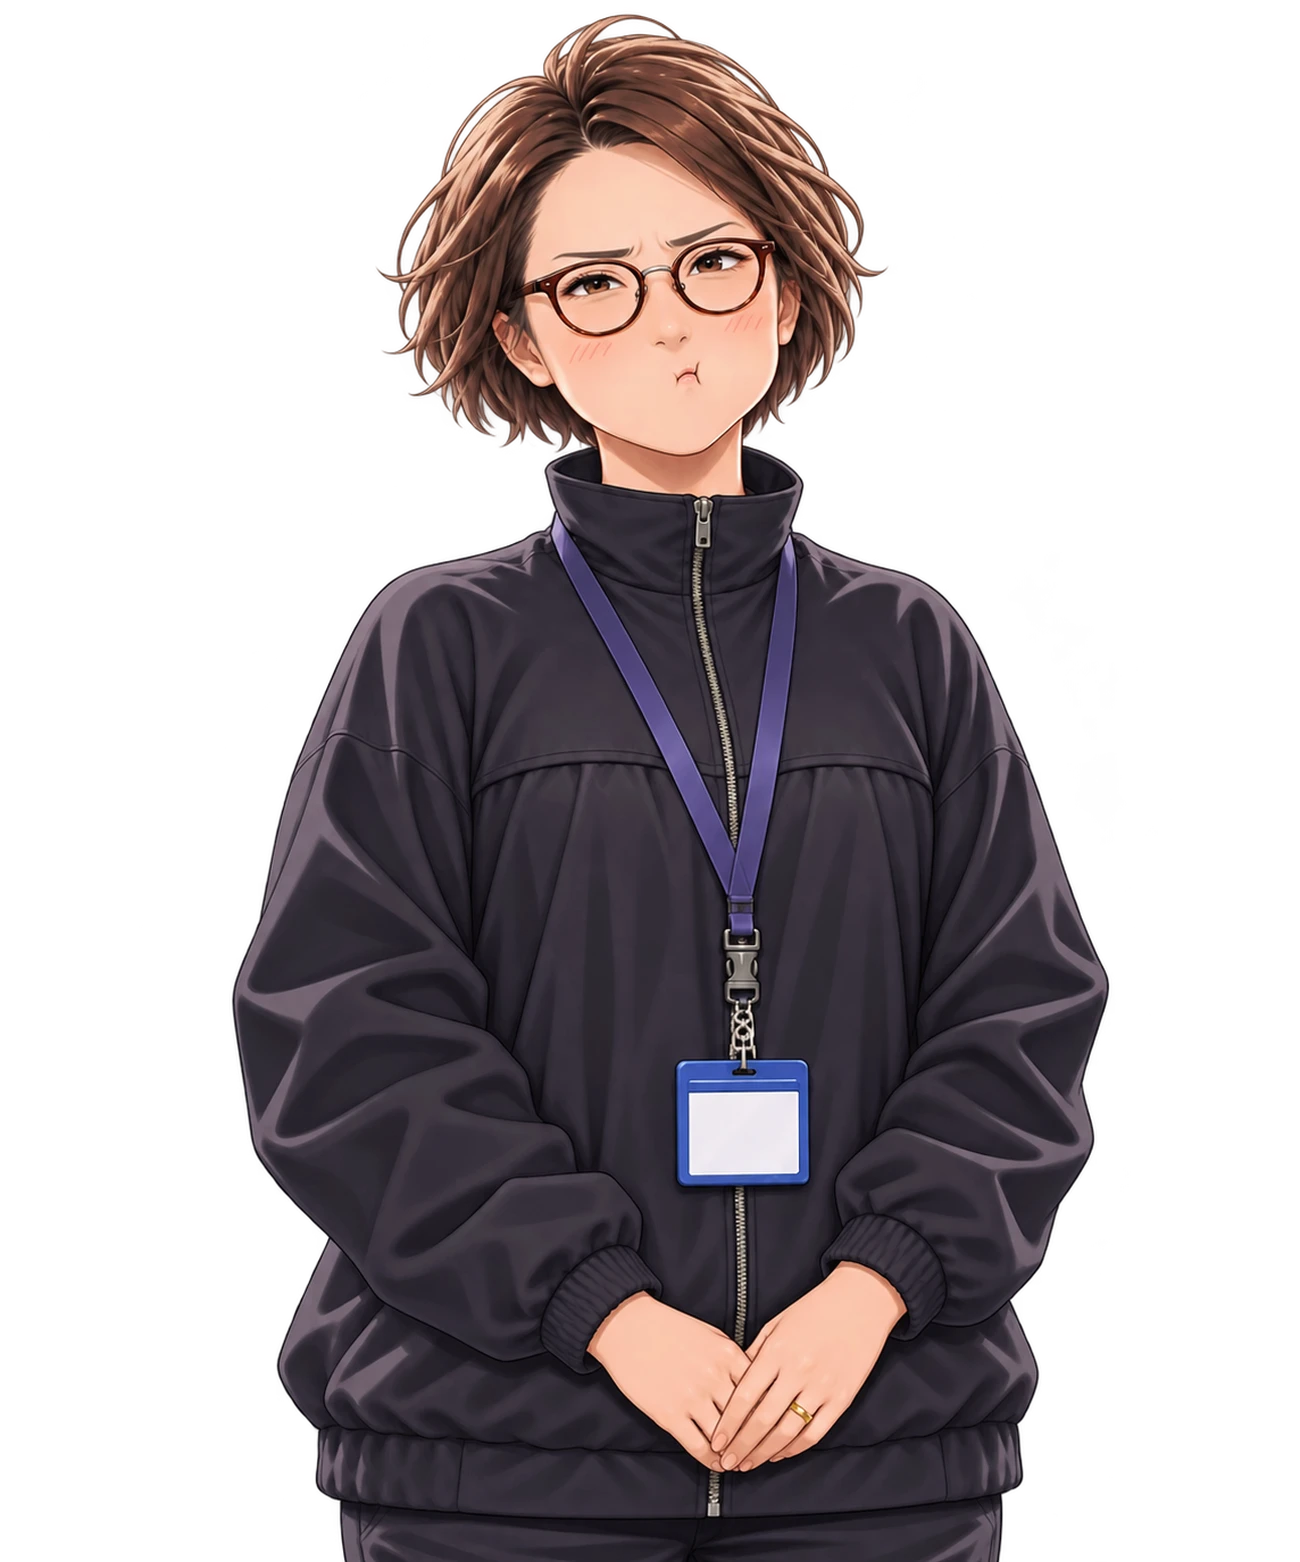
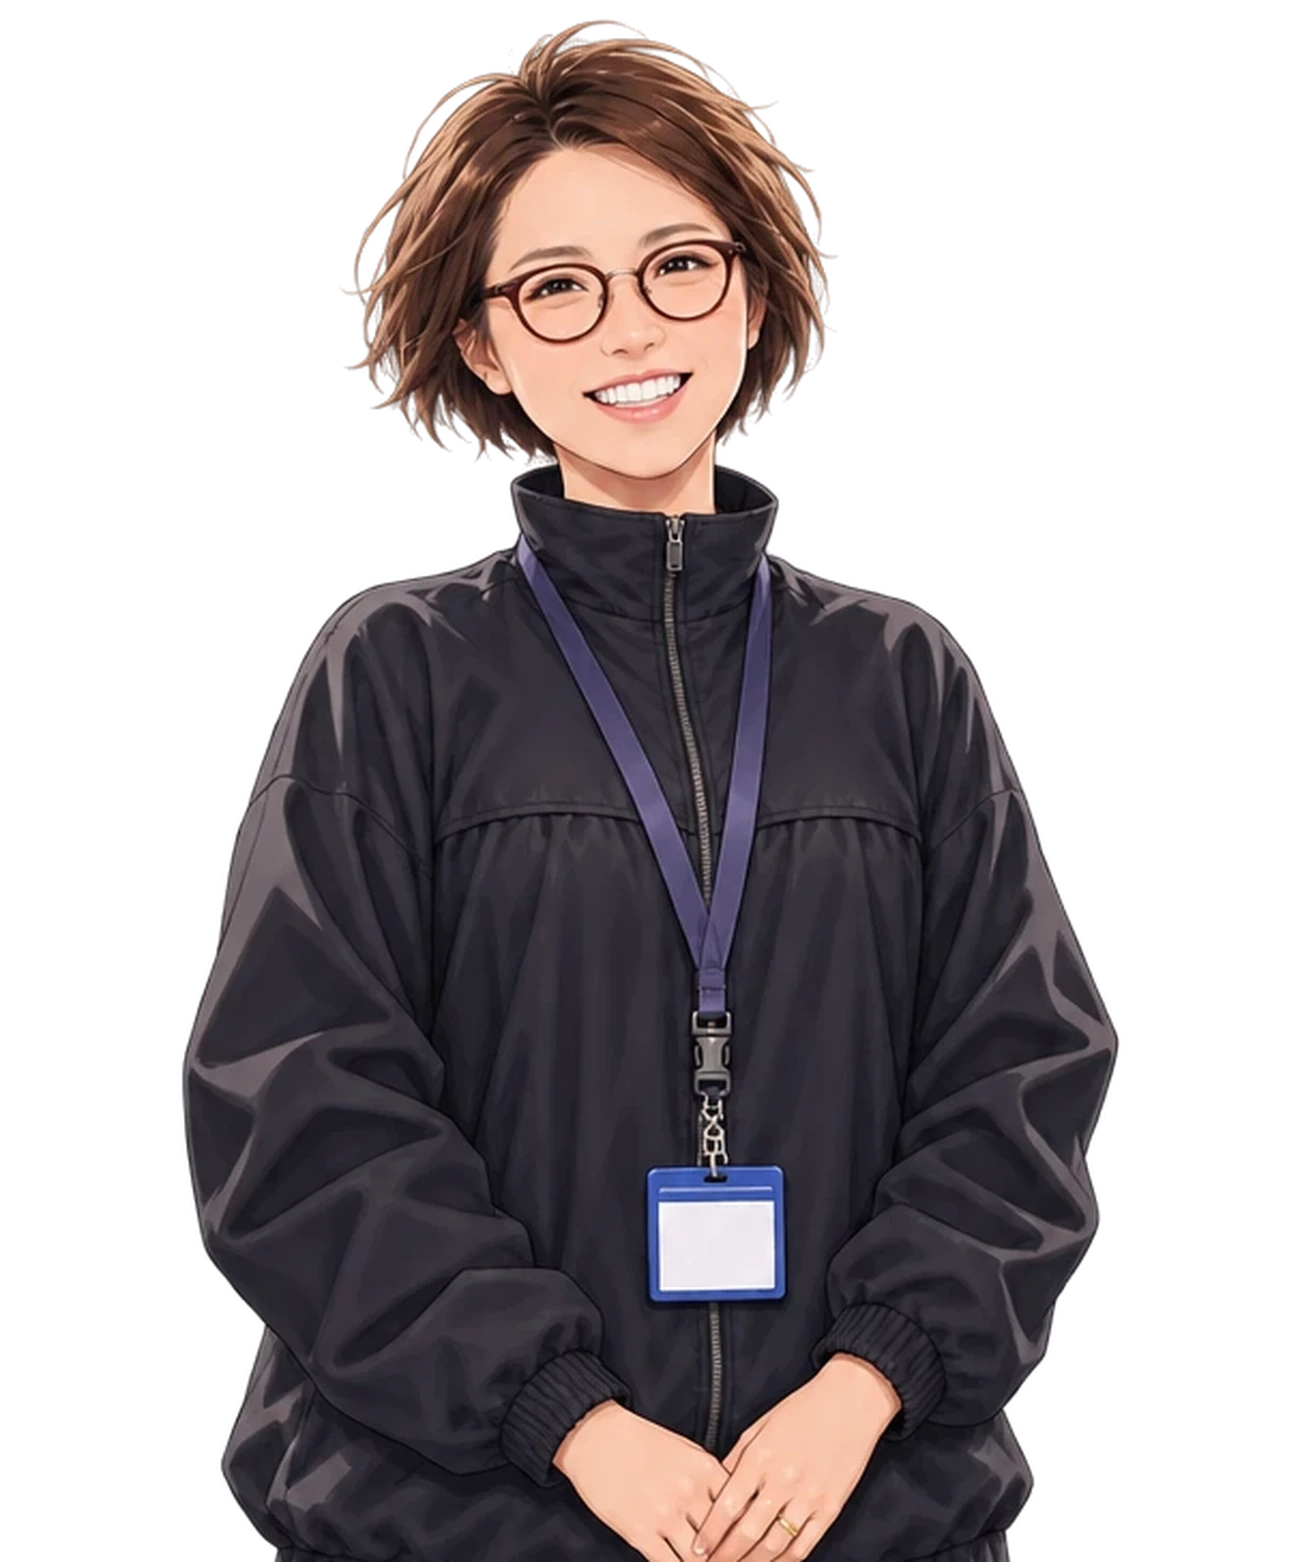
Ver.0.42.1.0 新ヒロイン5人のSSR・URを立ち絵の顔のまま背景と光の演出で作り直し、なつめの表情・上半身・SR・戦闘用も立ち絵にそろえる

Changed region(s): [[0.1231, 0.0, 0.8615, 1.0], [0.6462, 0.5224, 0.6769, 0.5531], [0.4, 0.6146, 0.4308, 0.6453]]

diff --git a/index.html b/index.html
@@ -1,3 +1,3 @@
 <!doctype html><html lang="ja"><head><meta charset="UTF-8"><meta name="viewport" content="width=device-width, initial-scale=1, viewport-fit=cover, interactive-widget=resizes-content"><meta name="theme-color" content="#f6f8ff"><title>宵星の契約者 | RE:START Ver.0.42.0.0</title><link rel="stylesheet" href="css/styles.css?v=0.42.0.0"><link rel="stylesheet" href="css/chibi_battle.css?v=0.42.0.0"><link rel="stylesheet" href="css/q6_classic_battle_v03540.css?v=0.42.0.0"><link rel="stylesheet" href="css/home_portrait_fit_v03550.css?v=0.42.0.0"><link rel="stylesheet" href="css/portrait_face_frame_v03560.css?v=0.42.0.0"><link rel="stylesheet" href="css/mobile_landscape_v03560_patch.css?v=20261103"><link rel="stylesheet" href="css/character_depth_v1.css?v=1"><link rel="stylesheet" href="css/character_acting_v1.css?v=20261104-2">
 </head><body><div id="app"></div>
-<script defer src="js/art.js?v=0.42.0.0"></script><script defer src="js/art_v2.js?v=20261104-makoto-v1"></script><script defer src="js/romance7.js?v=0.42.0.0"></script><script defer src="js/romance_shinonome.js?v=0.42.0.0"></script><script defer src="js/romance_oldcafe.js?v=0.42.0.0"></script><script defer src="js/romance_stage_lines.js?v=0.42.0.0"></script><script defer src="js/romance_station.js?v=0.42.0.0"></script><script defer src="js/romance_school.js?v=0.42.0.0"></script><script defer src="js/romance_seaside.js?v=0.42.0.0"></script><script defer src="js/romance_lighthouse.js?v=0.42.0.0"></script><script defer src="js/romance_chapter2.js?v=0.42.0.0"></script><script defer src="js/romance_chapter2_late.js?v=0.42.0.0"></script><script defer src="js/expression_cues.js?v=0.42.0.0"></script><script defer src="js/expression_art_v029.js?v=0.42.0.0"></script><script defer src="js/expression_cues_v029.js?v=0.42.0.0"></script><script defer src="js/prologue_faces_v03439.js?v=0.42.0.0"></script><script defer src="js/audio.js?v=0.42.0.0"></script><script defer src="js/audio_trial.js?v=0.42.0.0"></script><script defer src="js/romance_chapter3.js?v=0.42.0.0"></script><script defer src="js/romance_chapter3_late.js?v=0.42.0.0"></script><script defer src="js/romance_chapter4.js?v=0.42.0.0"></script><script defer src="js/romance_chapter5.js?v=0.42.0.0"></script><script defer src="js/chapter5_rewrite_v0360.js?v=0.42.0.0"></script><script defer src="js/chapter6_v0370.js?v=0.42.0.0"></script><script defer src="js/chapter7_v0380.js?v=0.42.0.0"></script><script defer src="js/chapter8_v0390.js?v=0.42.0.0"></script><script defer src="js/chapter9_v0400.js?v=0.42.0.0"></script><script defer src="js/chapter10_v0410.js?v=0.42.0.0"></script><script defer src="js/investigation.js?v=0.42.0.0"></script><script defer src="js/story_backgrounds_v031.js?v=0.42.0.0"></script><script defer src="js/portrait_fit_v031.js?v=0.42.0.0"></script><script defer src="js/new_units_v026.js?v=0.42.0.0"></script><script defer src="js/heroines_v027.js?v=0.42.0.0"></script><script defer src="js/heroines_v028.js?v=0.42.0.0"></script><script defer src="js/heroines_v0420.js?v=0.42.0.0"></script><script defer src="js/performance_v016.js?v=0.42.0.0"></script><script defer src="js/q12_hd2d.js?v=0.42.0.0"></script><script defer src="js/q12_cinematic.js?v=0.42.0.0"></script><script defer src="js/chibi_battle.js?v=0.42.0.0"></script><script defer src="js/zankyo_enemy_art_v03440.js?v=0.42.0.0"></script><script defer src="js/chibi_bridge_v03321.js?v=0.42.0.0"></script><script defer src="js/battle_turn_v032.js?v=0.42.0.0"></script><script defer src="js/battle_weakness_v033.js?v=0.42.0.0"></script><script defer src="js/battle_flames_v034.js?v=0.42.0.0"></script><script defer src="js/battle_flame_ui_v03410.js?v=0.42.0.0"></script><script defer src="js/battle_auto_v03454.js?v=0.42.0.0"></script><script defer src="js/ambient_v03438.js?v=0.42.0.0"></script><script defer src="js/story_rewrite_v03416.js?v=0.42.0.0"></script><script defer src="js/character_depth_v1.js?v=1"></script><script defer src="js/game.js?v=0.42.0.0"></script><script defer src="js/haruka_chapter4_v03458.js?v=0.42.0.0"></script><script defer src="js/boss_director_v03462.js?v=0.42.0.0"></script><script defer src="js/q6_classic_battle_v03540.js?v=0.42.0.0"></script><script defer src="js/home_portrait_fit_v03550.js?v=0.42.0.0"></script><script defer src="js/portrait_faces_v03560.js?v=0.42.0.0"></script><script defer src="js/portrait_face_frame_v03560.js?v=0.42.0.0"></script><script defer src="js/story_weight_cues_v0359.js?v=0.42.0.0"></script><script defer src="js/heroines_v0420_wire.js?v=0.42.0.0"></script></body></html>
+<script defer src="js/art.js?v=0.42.0.0"></script><script defer src="js/art_v2.js?v=20261104-makoto-v1"></script><script defer src="js/romance7.js?v=0.42.0.0"></script><script defer src="js/romance_shinonome.js?v=0.42.0.0"></script><script defer src="js/romance_oldcafe.js?v=0.42.0.0"></script><script defer src="js/romance_stage_lines.js?v=0.42.0.0"></script><script defer src="js/romance_station.js?v=0.42.0.0"></script><script defer src="js/romance_school.js?v=0.42.0.0"></script><script defer src="js/romance_seaside.js?v=0.42.0.0"></script><script defer src="js/romance_lighthouse.js?v=0.42.0.0"></script><script defer src="js/romance_chapter2.js?v=0.42.0.0"></script><script defer src="js/romance_chapter2_late.js?v=0.42.0.0"></script><script defer src="js/expression_cues.js?v=0.42.0.0"></script><script defer src="js/expression_art_v029.js?v=0.42.0.0"></script><script defer src="js/expression_cues_v029.js?v=0.42.0.0"></script><script defer src="js/prologue_faces_v03439.js?v=0.42.0.0"></script><script defer src="js/audio.js?v=0.42.0.0"></script><script defer src="js/audio_trial.js?v=0.42.0.0"></script><script defer src="js/romance_chapter3.js?v=0.42.0.0"></script><script defer src="js/romance_chapter3_late.js?v=0.42.0.0"></script><script defer src="js/romance_chapter4.js?v=0.42.0.0"></script><script defer src="js/romance_chapter5.js?v=0.42.0.0"></script><script defer src="js/chapter5_rewrite_v0360.js?v=0.42.0.0"></script><script defer src="js/chapter6_v0370.js?v=0.42.0.0"></script><script defer src="js/chapter7_v0380.js?v=0.42.0.0"></script><script defer src="js/chapter8_v0390.js?v=0.42.0.0"></script><script defer src="js/chapter9_v0400.js?v=0.42.0.0"></script><script defer src="js/chapter10_v0410.js?v=0.42.0.0"></script><script defer src="js/investigation.js?v=0.42.0.0"></script><script defer src="js/story_backgrounds_v031.js?v=0.42.0.0"></script><script defer src="js/portrait_fit_v031.js?v=0.42.0.0"></script><script defer src="js/new_units_v026.js?v=0.42.0.0"></script><script defer src="js/heroines_v027.js?v=0.42.0.0"></script><script defer src="js/heroines_v028.js?v=0.42.0.0"></script><script defer src="js/heroines_v0420.js?v=0.42.0.0"></script><script defer src="js/performance_v016.js?v=0.42.0.0"></script><script defer src="js/q12_hd2d.js?v=0.42.0.0"></script><script defer src="js/q12_cinematic.js?v=0.42.0.0"></script><script defer src="js/chibi_battle.js?v=0.42.0.0"></script><script defer src="js/zankyo_enemy_art_v03440.js?v=0.42.0.0"></script><script defer src="js/chibi_bridge_v03321.js?v=0.42.0.0"></script><script defer src="js/battle_turn_v032.js?v=0.42.0.0"></script><script defer src="js/battle_weakness_v033.js?v=0.42.0.0"></script><script defer src="js/battle_flames_v034.js?v=0.42.0.0"></script><script defer src="js/battle_flame_ui_v03410.js?v=0.42.0.0"></script><script defer src="js/battle_auto_v03454.js?v=0.42.0.0"></script><script defer src="js/ambient_v03438.js?v=0.42.0.0"></script><script defer src="js/story_rewrite_v03416.js?v=0.42.0.0"></script><script defer src="js/character_depth_v1.js?v=1"></script><script defer src="js/game.js?v=0.42.0.0"></script><script defer src="js/haruka_chapter4_v03458.js?v=0.42.0.0"></script><script defer src="js/boss_director_v03462.js?v=0.42.0.0"></script><script defer src="js/q6_classic_battle_v03540.js?v=0.42.0.0"></script><script defer src="js/home_portrait_fit_v03550.js?v=0.42.0.0"></script><script defer src="js/portrait_faces_v03560.js?v=0.42.0.0"></script><script defer src="js/portrait_face_frame_v03560.js?v=0.42.0.0"></script><script defer src="js/story_weight_cues_v0359.js?v=0.42.0.0"></script><script defer src="js/heroines_v0420_wire.js?v=0.42.1.0"></script></body></html>

diff --git a/js/heroines_v0420_wire.js b/js/heroines_v0420_wire.js
@@ -1,6 +1,6 @@
 /* Ver.0.42.0.0 — 新ヒロイン6人の絵（全身・上半身・表情）を絵の対応表に登録する。 */
 (function(){
- const V='?v=0.42.0.0';const ids=['natsume','hotaru','minori','ichika','juri','saeko'];
+ const V='?v=0.42.1.0';const ids=['natsume','hotaru','minori','ichika','juri','saeko'];
  if(typeof ART_V2!=='undefined'){for(const id of ids){
   if(ART_V2.full_body)ART_V2.full_body[id]=`assets/ART_V2/full_body/${id}.webp${V}`;
   if(ART_V2.upper_body)ART_V2.upper_body[id]=`assets/ART_V2/upper_body/${id}.webp${V}`;
